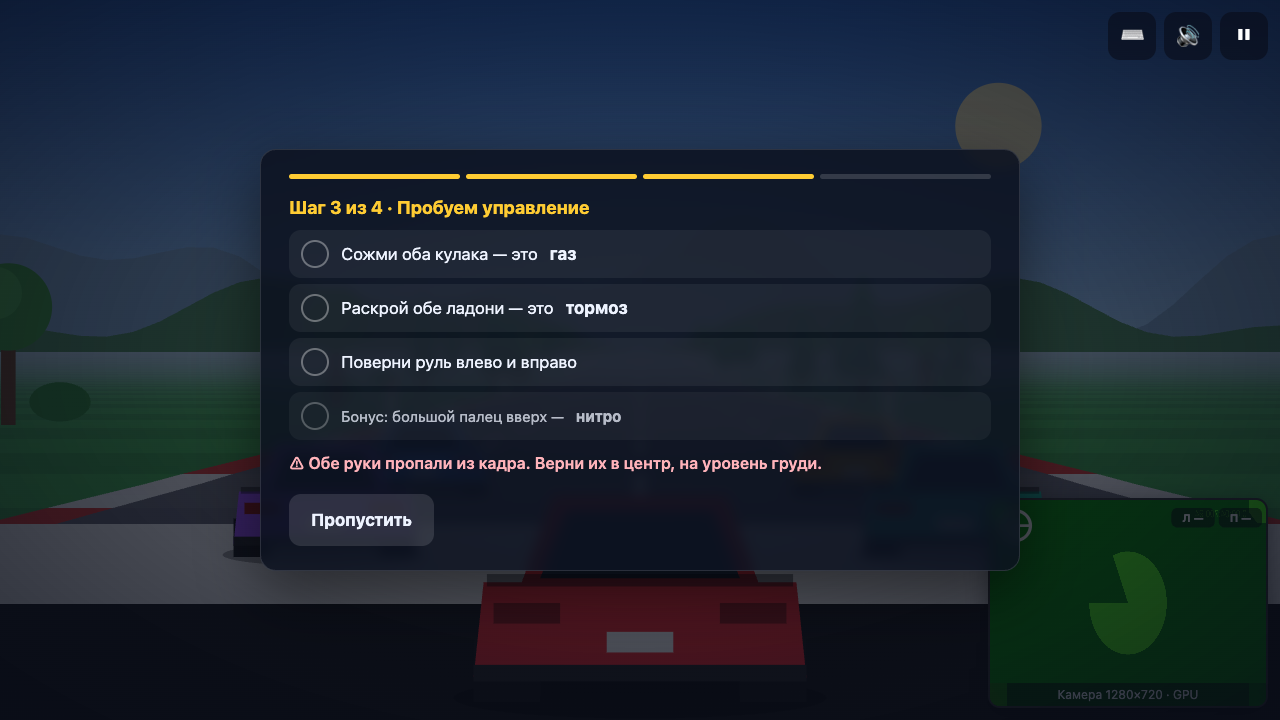
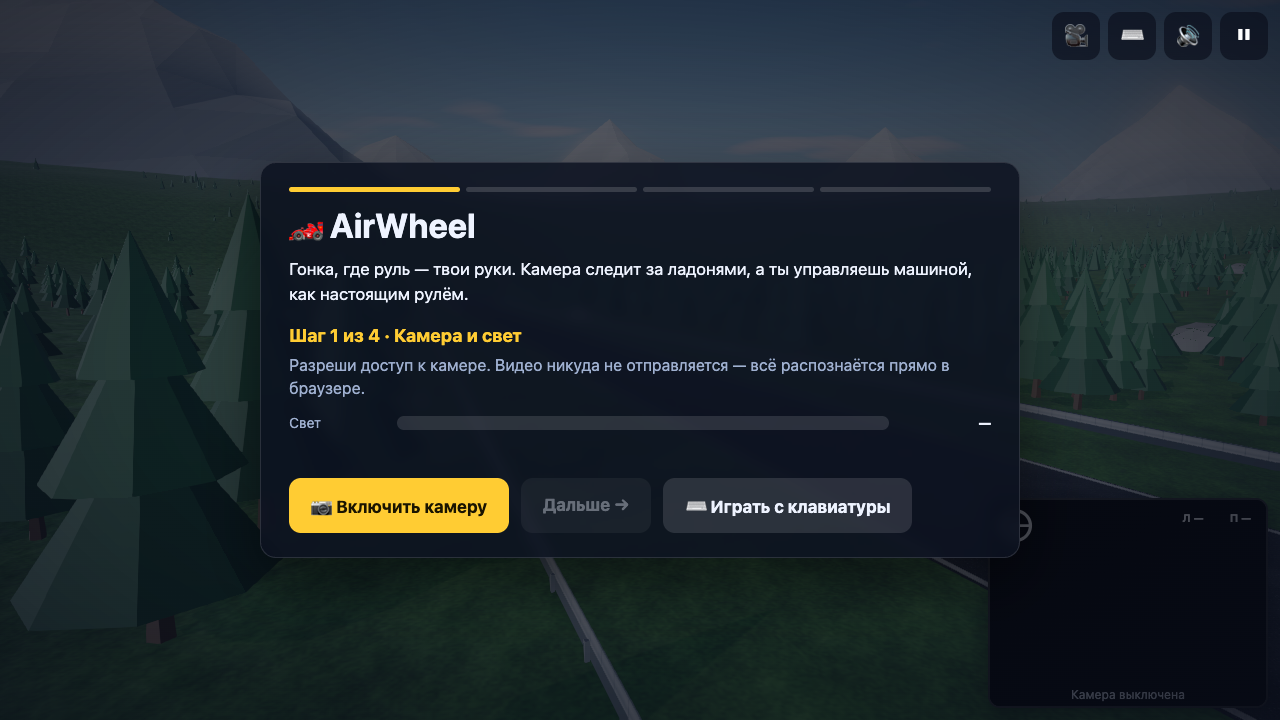
Этап 11: README для 3D-версии, новые скриншоты, проверка сборки
- README: уик-энд (квала → решётка → гонка → итоги), классы GT3/F1 с цифрами, три трассы, физика,
  боты, режим «Ошибка» со всеми правилами и приоритетами, графика и пресеты, звук, структура, тесты
- docs: скриншоты трёх трасс, меню, итогов с подиумом, онбординга и телефона
- протокол: лучший круг досчитанных машин не быстрее их среднего темпа
- проверено: npm test, сборка dist/ и запуск всех трасс в Chrome без ошибок в консоли

diff --git a/src/game/session.js b/src/game/session.js
@@ -305,7 +305,8 @@ export class RaceSession {
       e.finishTime = this.time + Math.max(0, total - prog) / avg;
       e.finished = true;
       e.estimated = true;
-      if (!e.timing.bestLap && e.bot) e.timing.bestLap = e.bot.prof.lapTime * (1.01 + Math.random() * 0.02);
+      // лучший круг не быстрее среднего темпа этой машины
+      if (!e.timing.bestLap) e.timing.bestLap = (e.finishTime / this.laps) * (0.985 + Math.random() * 0.01);
     }
     this.state = 'done';
     this.emit({ type: 'done' });
